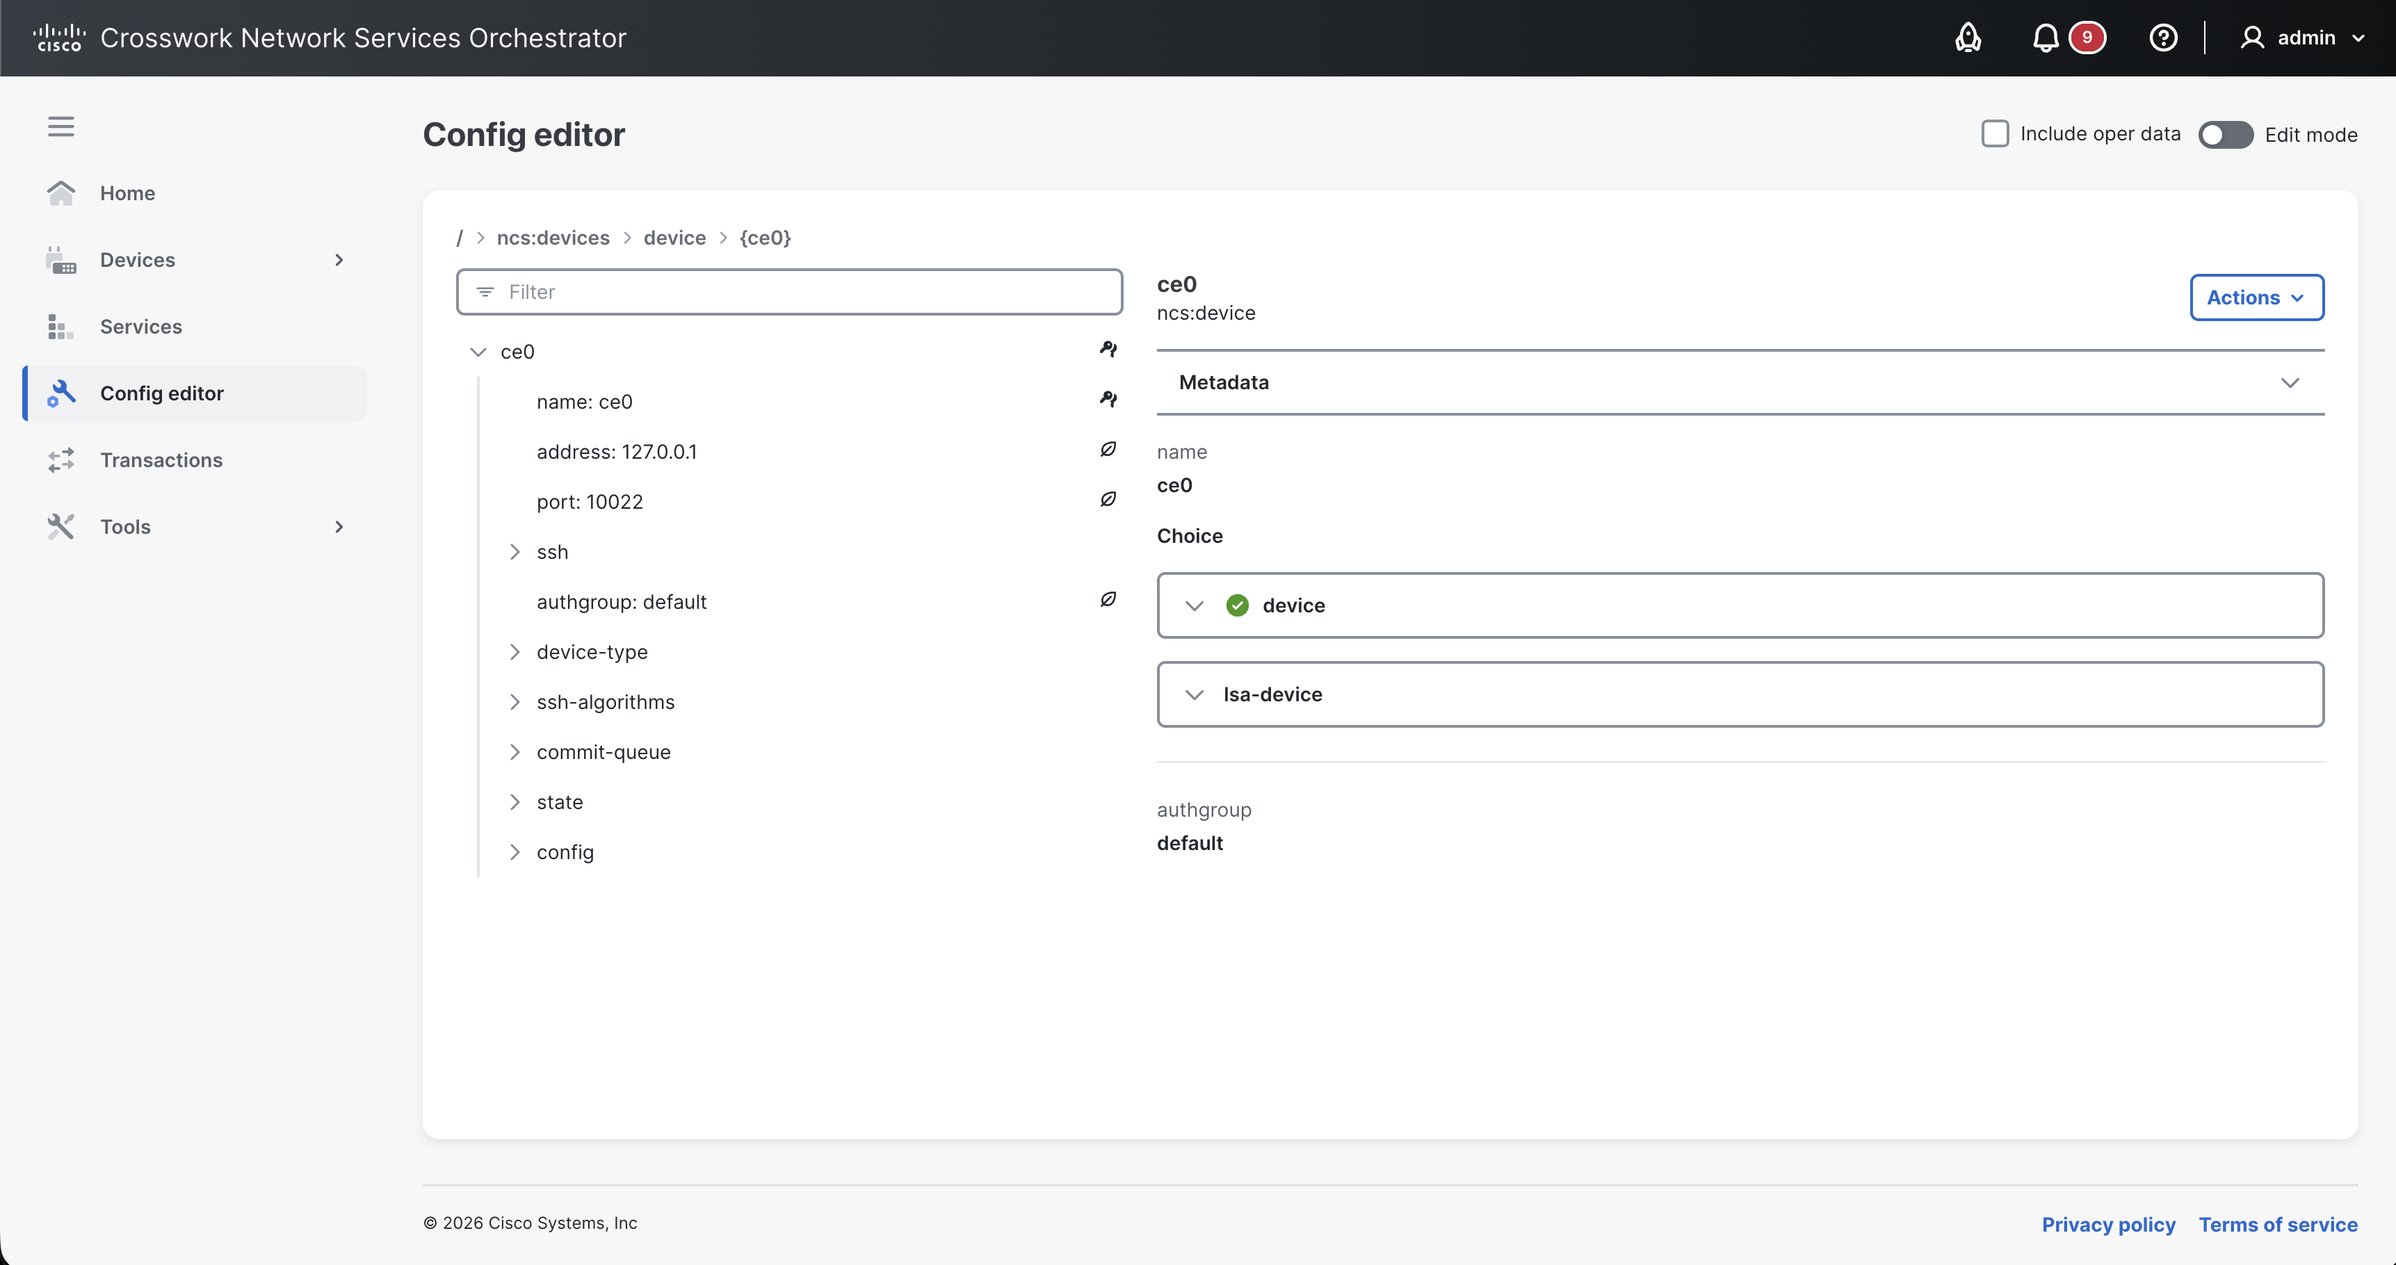
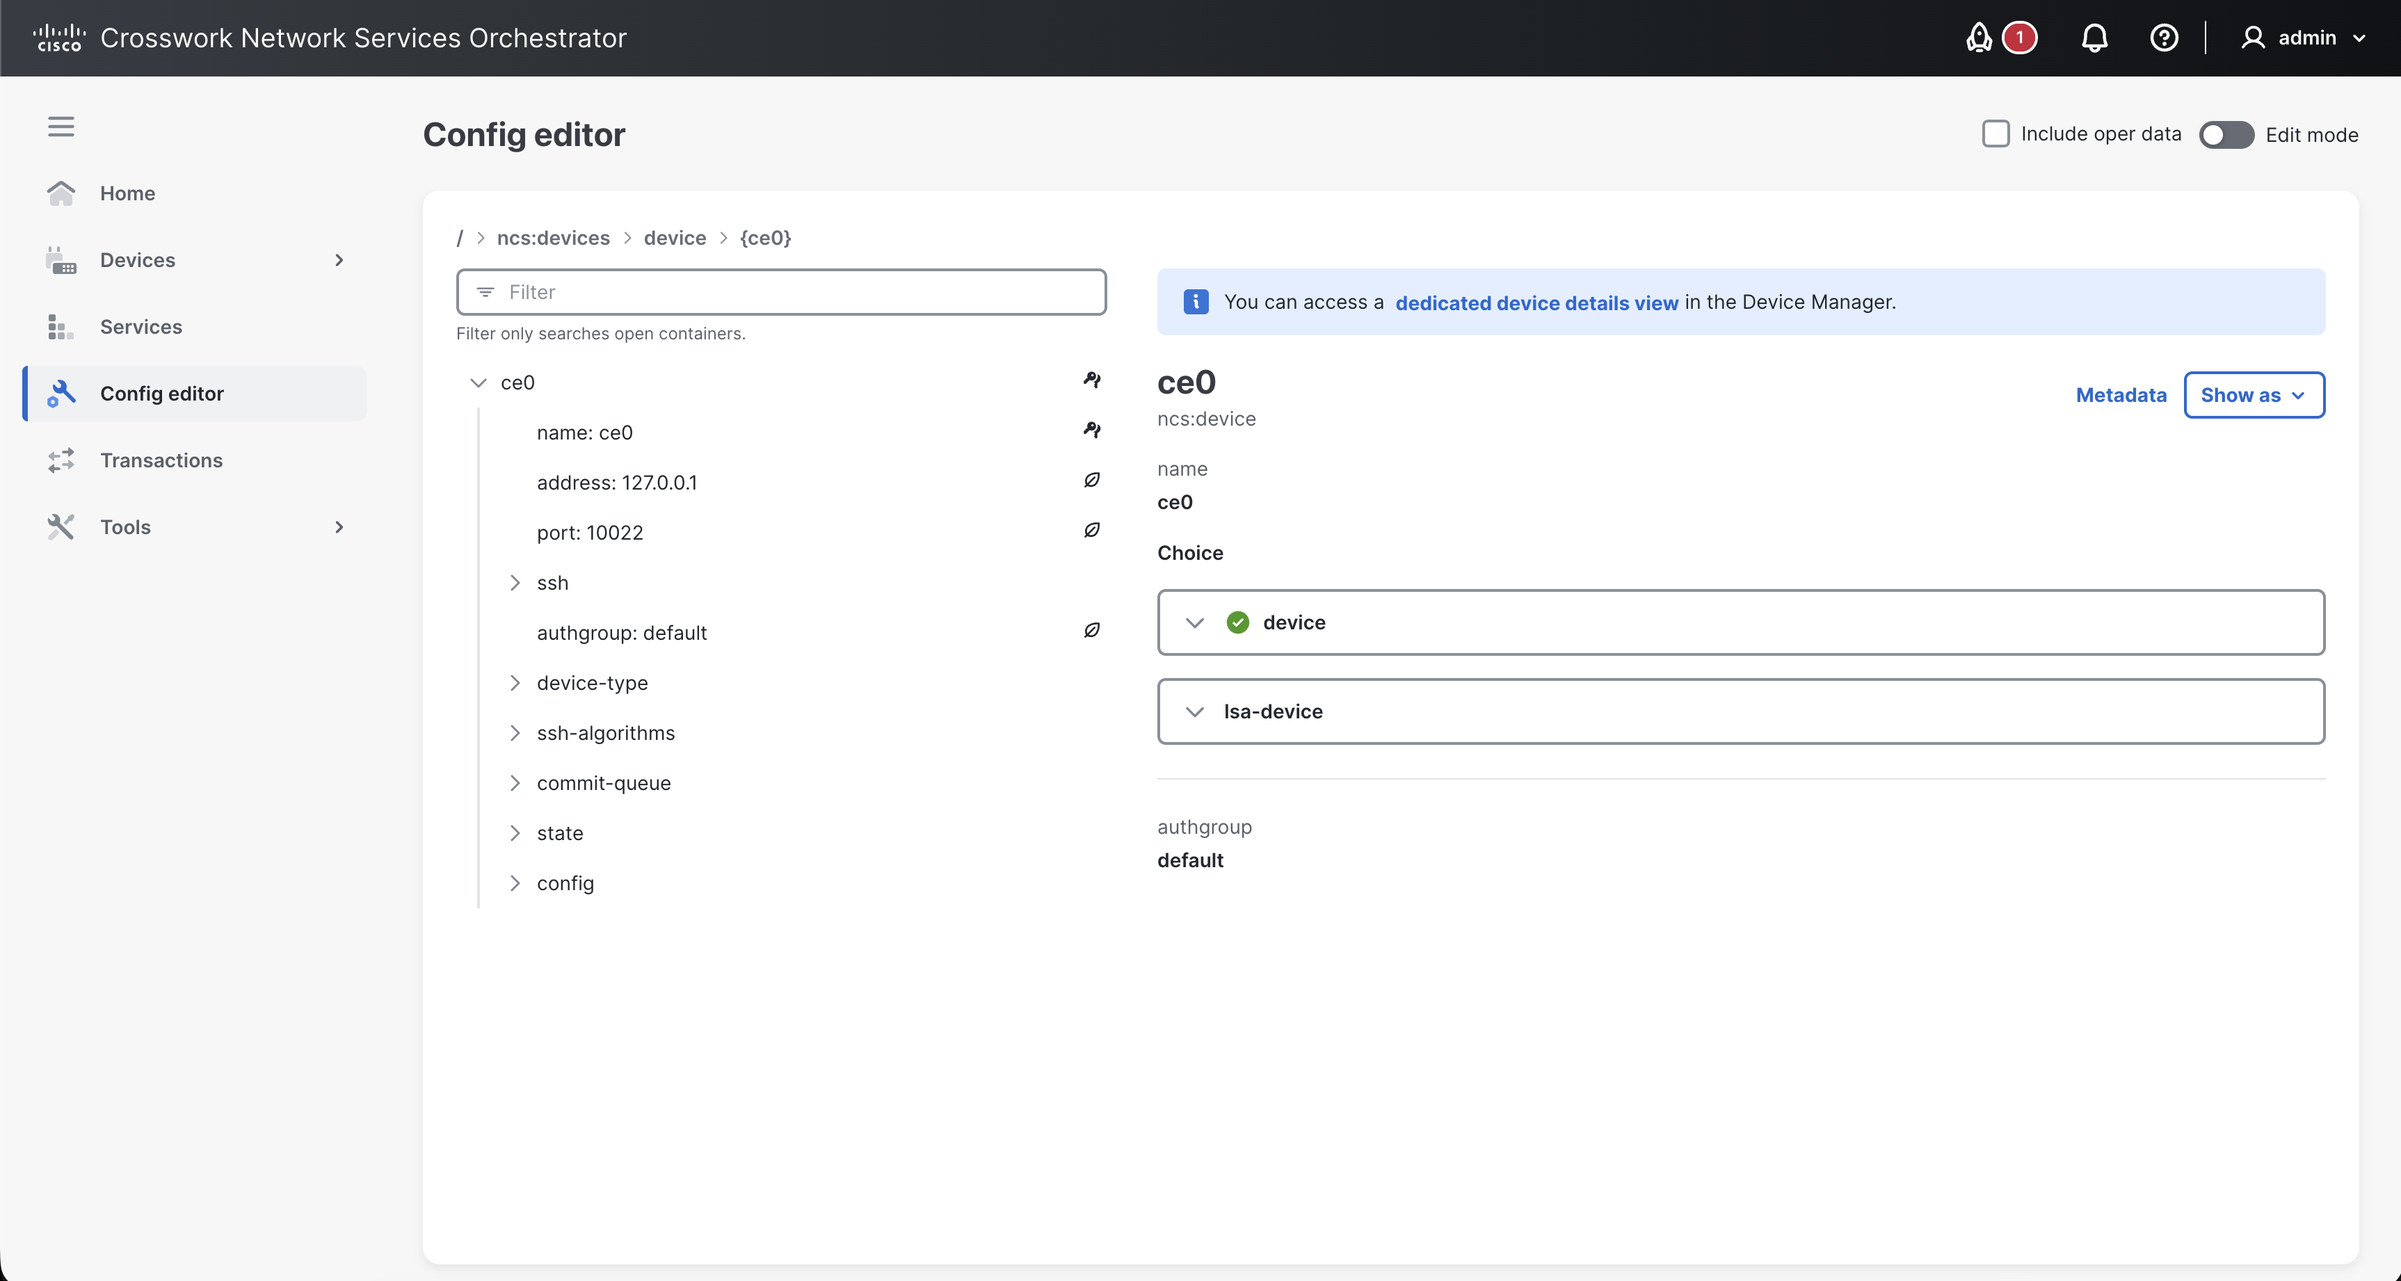
GITBOOK-409: ENG-41825 - Web UI Updates

diff --git a/development/advanced-development/web-ui-development/json-rpc-api.md b/development/advanced-development/web-ui-development/json-rpc-api.md
@@ -985,7 +985,7 @@ The `path` param is a keypath pointing to data that contains the choice leaf giv
 
 <summary><mark style="color:green;"><code>show_config</code></mark></summary>
 
-`show_config` - Retrieves configuration and operational data from the provided transaction. Output can be returned in several formats (CLI, CLI-C, XML, or JSON variants), with optional pagination and filtering to control the breadth and volume of returned data.
+`show_config` - Retrieves configuration and operational data from the provided transaction. Output can be returned in several formats (XML, JSON and a JSON variant, Juniper curly-braces CLI, Cisco XR CLI, Juniper set commands, XPath, keypath, RESTCONF paths, a NETCONF get request, or Maagic objects), with optional pagination and filtering to control the breadth and volume of returned data.
 
 **Params**
 
@@ -998,7 +998,7 @@ The `path` param is a keypath pointing to data that contains the choice leaf giv
 ```
 
 ```json
-{"result_as": <"json" | "json2" | "cli" | "cli-c" | "xml", default: "cli">}
+{"result_as": <"json" | "json2" | "cli" | "cli-c" | "cli-set" | "xpath" | "keypath" | "restconf" | "maagic" | "netconf_get" | "xml", default: "cli">}
 ```
 
 ```json
@@ -1033,7 +1033,15 @@ The `path` param is a keypath pointing to data that contains the choice leaf giv
 {"with_service_meta_data": <boolean, default: false>}
 ```
 
-The `path` param is a keypath to the configuration to be returned. `result_as` controls the output format; `cli` for CLI curly bracket format, `cli-c` for Cisco CLI style format, `xml` for XML compatible with NETCONF, `json` for JSON compatible with RESTCONF, and `json2` for a variant of the RESTCONF JSON format. `max_size` sets the maximum size of the data field in kB, set to 0 to disable the limit. The `with_oper` param, which controls if the operational data should be included, only takes effect when `result_as` is set to `json` or `json2`. `depth` limits the depth (levels) of the returned subtree below the target `path`. `include` retrieves a subset of nodes below the target `path`, similar to the [RESTCONF fields query parameter](../../core-concepts/northbound-apis/restconf-api.md#d5e1600). `exclude` excludes a subset of nodes below the target `path`, similar to the [RESTCONF exclude query parameter.](../../core-concepts/northbound-apis/restconf-api.md#the-exclude-query-parameter) `offset` controls the number of list elements to skip before returning the requested set of entries. `limit` controls the of list entries to retrieve.
+* The `path` param is a keypath to the configuration to be returned.&#x20;
+* `result_as` controls the output format: `cli` for CLI curly-brace format, `cli-c` for Cisco XR CLI, `cli-set` for Juniper set commands, `xml` for XML compatible with NETCONF, `json` for JSON compatible with RESTCONF, `json2` for a JSON variant, `xpath` for XPath, `keypath` for keypath, `restconf` for RESTCONF paths, `netconf_get` for a NETCONF get request, and `maagic` for Maagic objects.&#x20;
+* `max_size` sets the maximum size of the data field in kB, set to 0 to disable the limit.&#x20;
+* The `with_oper` param, which controls if the operational data should be included, only takes effect when `result_as` is set to `json` or `json2`.&#x20;
+* `depth` limits the depth (levels) of the returned subtree below the target `path`.&#x20;
+* `include` retrieves a subset of nodes below the target `path`, similar to the [RESTCONF fields query parameter](../../core-concepts/northbound-apis/restconf-api.md#d5e1600).&#x20;
+* `exclude` excludes a subset of nodes below the target `path`, similar to the [RESTCONF exclude query parameter](../../core-concepts/northbound-apis/restconf-api.md#the-exclude-query-parameter).&#x20;
+* `offset` controls the number of list elements to skip before returning the requested set of entries.&#x20;
+* `limit` controls the of list entries to retrieve.
 
 **Attributes**
 
@@ -1061,7 +1069,7 @@ The parameter `with_service_meta_data` allows the specific service metadata attr
 
 **Result**
 
-The `result_as` param when set to `cli`, `cli-c`, or `xml` :
+The `result_as` param when set to `cli`, `cli-c`, `cli-set`, `xpath`, `keypath`, `restconf`, `maagic`, `netconf_get`, or `xml`:
 
 ```json
 {"config": <string>}
@@ -3174,13 +3182,9 @@ The `conf_mode` param specifies which transaction semantics to use when it comes
 The meaning of `private`, `shared`, and `exclusive` have slightly different meaning depending on how the system is configured; with a writable running, startup, or candidate configuration.
 
 * `private` (\*writable running enabled\*) - Edit a private copy of the running configuration, no lock is taken.
-
-- `private` (\*writable running disabled, startup enabled\*) - Edit a private copy of the startup configuration, no lock is taken.
-
+* `private` (\*writable running disabled, startup enabled\*) - Edit a private copy of the startup configuration, no lock is taken.
 * `exclusive` (\*candidate enabled\*) - Lock the running configuration and the candidate configuration and edit the candidate configuration.
-
-- `exclusive` (\*candidate disabled, startup enabled\*) - Lock the running configuration (if enabled) and the startup configuration and edit the startup configuration.
-
+* `exclusive` (\*candidate disabled, startup enabled\*) - Lock the running configuration (if enabled) and the startup configuration and edit the startup configuration.
 * `shared` (\*writable running enabled, candidate enabled\*) - Is a deprecated setting.
 
 The `tag` param is a way to tag transactions with a keyword so that they can be filtered out when you call the `get_trans` method.
@@ -3374,12 +3378,13 @@ curl \
 
 <summary><mark style="color:green;"><code>get_trans_diff</code></mark></summary>
 
-`get_trans_diff` - Returns the configuration changes in the transaction compared to the running datastore, in XML format. This method can be called even if the transaction validation has failed.
+`get_trans_diff` - Returns the configuration changes in the transaction compared to the running datastore. The changes can be returned as XML, CLI curly-brace format, or Cisco XR CLI. This method can be called even if the transaction validation has failed.
 
 **Params**
 
 ```json
-{"th": <integer>}
+{"th": <integer>,
+ "result_as": <"xml" | "cli" | "cli-c", default: "xml">}
 ```
 
 **Result**
@@ -3388,7 +3393,7 @@ curl \
 {"diff": <string>}
 ```
 
-The `diff` param is the configuration diff as a single-line XML string.
+The `diff` param is the configuration diff as a string in the selected format.
 
 **Example**
 

diff --git a/operation-and-usage/webui/transactions.md b/operation-and-usage/webui/transactions.md
@@ -12,7 +12,7 @@ The **Transactions** view lets you view and manage current NSO transactions. It 
 
 The **Transactions** view is further divided into the following tabs:
 
-* **Uncommitted**: Shows the changes currently present in the active transaction and provides options to validate, export, load, or revert them.
+* **Uncommitted**: Shows the changes currently present in the active transaction and provides options to view them in a selected format, load, validate, or revert them.
 * **Commit queue**: Displays queued commit operations and their status.
 * **Rollback files**: Lists rollback files created for committed changes so that earlier transactions can be inspected or undone.
 
@@ -30,13 +30,19 @@ Use **Validate** to verify the current transaction before committing it. Validat
 
 Use **Revert changes** to discard the current uncommitted transaction. This removes the pending changes from the active transaction.
 
-### Export Transaction
+### Show Transaction Changes
 
-Use **Export transaction** to save the current uncommitted transaction for later use or review.
+Use **Show as** to view the current uncommitted changes in one of the following formats:
+
+* XML
+* Cisco XR CLI
+* Juniper curly-braces CLI
+
+The drawer lets you copy the displayed changes or save them to a file. **Show as** replaces the earlier **Export transaction** drawer. To view a dry-run result, use the **Commit** drawer instead.
 
 ### Load Transaction
 
-Use **Load transaction** to load configuration data into the current transaction. This can be used to continue working with previously saved changes or to import changes from another source. Options include:&#x20;
+Use **Load transaction** to load configuration data into the current transaction. This can be used to continue working with previously saved changes or to import changes from another source. Options include:
 
 * **Use** **File**: Use a file from your local disk.
 * **Use** **Data**: Paste in the configuration date.
@@ -76,7 +82,7 @@ Use **Purge** in the **Completed** subtab to remove completed commit results fro
 
 When you click **Purge**, the **Purge completed queue items** dialog is displayed. In this dialog, you can specify which queue items to remove. Options include:
 
-* **status**: Select the result status of the queue items to purge. Available values are **completed**, **deleted**, and **failed**.&#x20;
+* **status**: Select the result status of the queue items to purge. Available values are **completed**, **deleted**, and **failed**.
 * **older-than**: Purge items older than specified seconds, minutes, hours, days, or weeks. The time fields can be used to define the age of queue items that should be removed.
 
 To purge completed queue items:

diff --git a/operation-and-usage/webui/tools.md b/operation-and-usage/webui/tools.md
@@ -167,11 +167,7 @@ To set an alarm handling state:
 5. Access the Commit Manager by clicking its icon <img src="../../.gitbook/assets/commit-manager.png" alt="" data-size="line"> in the banner.
 6. Review the available changes appearing as **Current transaction**. If there are errors in the change, the Commit Manager alerts you and suggests possible corrections. You can then fix them and press **Re-validate** to clear the errors.
 7. Click **Revert** to undo or **Commit** to confirm the changes in the transaction.
-   * **Commit Options**: When committing a transaction, you have the possibility to choose **Commit options** and perform a commit with the specified commit option(s). Examples of commit options are: **No revision drop**, **No deploy**, **No networking**, etc. Commit options are described centrally in [Commit Parameters](../operations/lifecycle-operations.md#d5e5048).
-8. Access the Commit Manager by clicking its icon <img src="../../.gitbook/assets/commit-manager.png" alt="" data-size="line"> in the banner.
-9. Review the available changes appearing as **Current transaction**. If there are errors in the change, the Commit Manager alerts you and suggests possible corrections. You can then fix them and press **Re-validate** to clear the errors.
-10. Click **Revert** to undo or **Commit** to confirm the changes in the transaction.
-    * **Commit Options**: When committing a transaction, you have the possibility to choose **Commit options** and perform a commit with the specified commit option(s). Examples of commit options are: **No revision drop**, **No deploy**, **No networking**, etc. Commit options are described in detail in the JSON-RPC API documentation under [Methods - transaction - commit changes](../../development/advanced-development/web-ui-development/json-rpc-api.md#methods-transaction-commit-changes).
+   * **Commit Options**: When committing a transaction, you have the possibility to choose **Commit options** and perform a commit with the specified commit option(s). Examples of commit options are: **No revision drop**, **No deploy**, **No networking**, etc. Commit options are described in detail in the JSON-RPC API documentation under [Methods - transaction - commit changes](../../development/advanced-development/web-ui-development/json-rpc-api.md#methods-transaction-commit-changes).
 
 ## Compliance Reporting <a href="#sec.webui_compliance" id="sec.webui_compliance"></a>
 

diff --git a/operation-and-usage/get-started.md b/operation-and-usage/get-started.md
@@ -11,7 +11,7 @@ icon: chevrons-right
 
 ## Web UI
 
-<table data-view="cards"><thead><tr><th></th><th></th><th data-hidden data-card-target data-type="content-ref"></th></tr></thead><tbody><tr><td><strong>Home</strong></td><td>Intro to Web UI home page and extension packages.</td><td><a href="webui/home.md">home.md</a></td></tr><tr><td><strong>Devices</strong></td><td>Manage devices and device groups in the Web UI.</td><td><a href="webui/devices.md">devices.md</a></td></tr><tr><td><strong>Services</strong></td><td>Manage NSO services using the Web UI.</td><td><a href="webui/services.md">services.md</a></td></tr><tr><td><strong>Config Editor</strong></td><td>Traverse and configure NSO using the YANG model.</td><td><a href="webui/config-editor.md">config-editor.md</a></td></tr><tr><td><strong>Tools</strong></td><td>Tools to perform specialized tasks on NSO.</td><td><a href="webui/tools.md">tools.md</a></td></tr></tbody></table>
+<table data-view="cards"><thead><tr><th></th><th></th><th data-hidden data-card-target data-type="content-ref"></th></tr></thead><tbody><tr><td><strong>Home</strong></td><td>Intro to Web UI home page and extension packages.</td><td><a href="webui/home.md">home.md</a></td></tr><tr><td><strong>Devices</strong></td><td>Manage devices and device groups in the Web UI.</td><td><a href="webui/devices.md">devices.md</a></td></tr><tr><td><strong>Services</strong></td><td>Manage NSO services using the Web UI.</td><td><a href="webui/services.md">services.md</a></td></tr><tr><td><strong>Config Editor</strong></td><td>Traverse and configure NSO using the YANG model.</td><td><a href="webui/config-editor.md">config-editor.md</a></td></tr><tr><td><strong>Tools</strong></td><td>Tools to perform specialized tasks on NSO.</td><td><a href="webui/tools.md">tools.md</a></td></tr><tr><td><strong>Transactions</strong></td><td>Review changes, queue entries, and rollbacks.</td><td><a href="webui/transactions.md">transactions.md</a></td></tr></tbody></table>
 
 ## Operations
 

diff --git a/operation-and-usage/webui/config-editor.md b/operation-and-usage/webui/config-editor.md
@@ -4,7 +4,7 @@ description: Traverse and edit NSO configuration using the YANG model.
 
 # Config Editor
 
-The **Configuration editor** view is the main interface for browsing and managing NSO configuration using the underlying YANG model. It displays the loaded YANG modules and configuration data in a hierarchical tree and provides a form-based view of the selected node.&#x20;
+The **Configuration editor** view is the main interface for browsing and managing NSO configuration using the underlying YANG model. It displays the loaded YANG modules and configuration data in a hierarchical tree and provides a form-based view of the selected node.
 
 In this view, you can browse configuration, inspect operational data, edit configurable nodes, invoke actions, and review metadata for the selected node. Depending on how you navigate in the Web UI, you may also be directed to the **Configuration editor** to continue viewing or editing a specific device, service, package, or other NSO object.
 
@@ -62,6 +62,23 @@ Input fields in the rendered view depend on the YANG type of the selected node. 
 Field descriptions and default values are shown in the rendered view where applicable. Additional node details, such as type and access information, are available in the **Metadata** panel.
 
 Depending on the field type, changes are applied automatically when you update the value or when you leave the field. If a value is invalid or cannot be applied, the UI indicates the error on the relevant field so that you can correct it before committing the change.
+
+#### **Show Configuration As**
+
+Use **Show as** above the rendered node view to display the selected configuration in one of the following formats:
+
+* XML
+* JSON
+* Cisco XR CLI
+* Juniper curly-braces CLI
+* Juniper set commands
+* XPath
+* Keypath
+* RESTCONF paths
+* NETCONF get
+* Maagic objects
+
+The drawer lets you copy the displayed configuration or save it to a file.
 
 #### Choice
 
